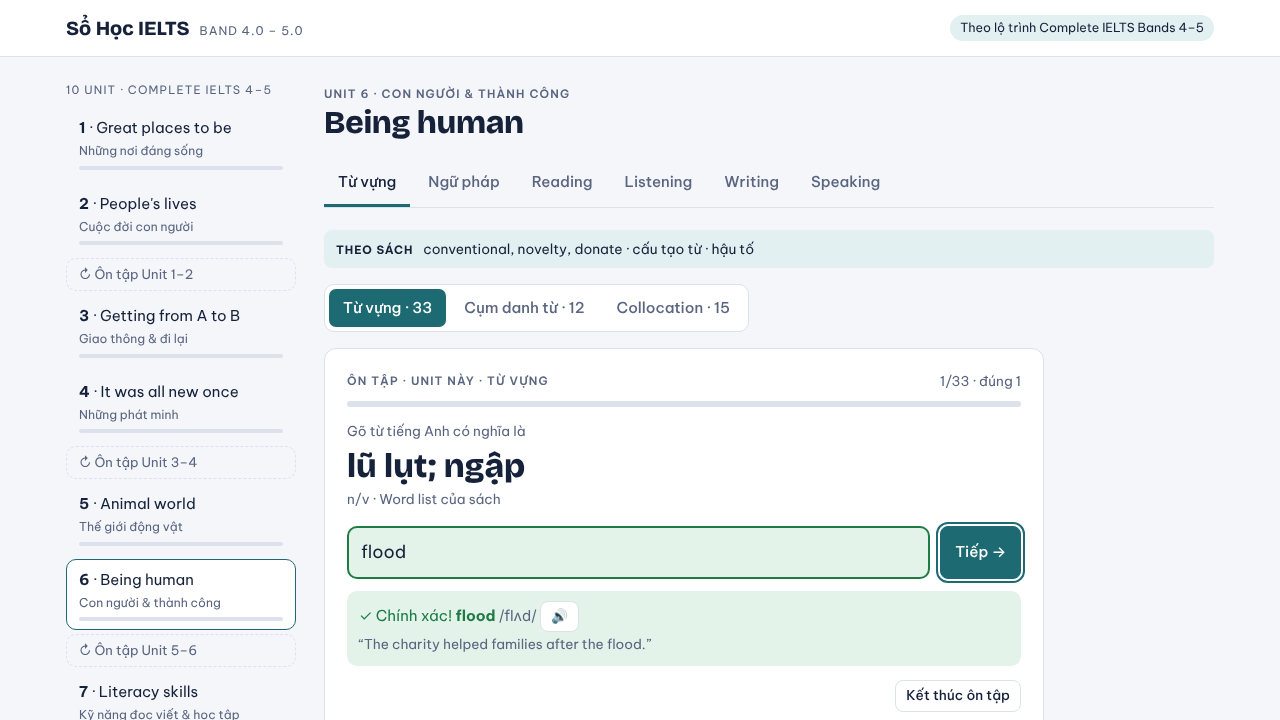
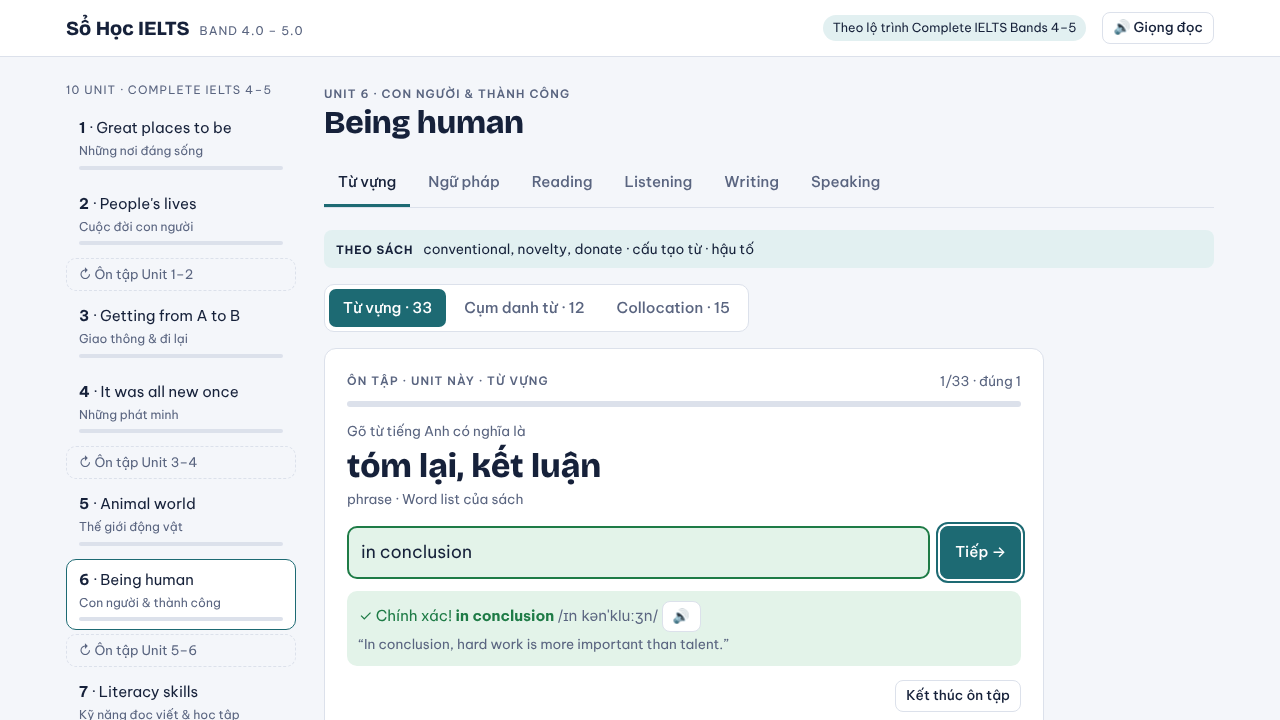
Ignore double quotes when checking typed answers
Claude-Session: https://claude.ai/code/session_015U8gLNH85nDQwAUq18VHqs

diff --git a/js/app.js b/js/app.js
@@ -308,10 +308,12 @@ function vocabPool(u){
   return {list: userList(u, m), key: u.id + M.key, qid: u.id + M.qid, np: m!=="word", M, mode: m};
 }
 /* Ôn tập gõ từ: hiện nghĩa, người học gõ lại từ tiếng Anh */
+// Chuẩn hoá khi so câu gõ: bỏ hoa/thường, khoảng trắng thừa, dấu ngoặc kép, dấu câu cuối
+const normT = x => norm(String(x).replace(/["“”]/g,"")).replace(/\s+/g," ").trim();
 function typAnswers(w){
   const out = new Set([w, w.replace(/\s*\([^)]*\)\s*/g," "), w.replace(/[()]/g,"")]);
   w.split(/\s*\/\s*/).forEach(x => x!==w && out.add(x));
-  return [...out].map(x => norm(x).replace(/\s+/g," "));
+  return [...out].map(normT);
 }
 function typStart(u, mode, scope, items){
   const list = items || (scope==="all" ? UNITS.flatMap((uu,ui) => userList(uu, mode).map(x => Object.assign({}, x, {_u:ui}))) : userList(u, mode).map(x => Object.assign({}, x, {_u:S.u})));
@@ -347,7 +349,7 @@ function typHTML(V){
   </div>`;
 }
 function typCheck(val){
-  const T = S.typ, x = T.list[T.i], v = norm(val).replace(/\s+/g," ");
+  const T = S.typ, x = T.list[T.i], v = normT(val);
   const ok = T.list.some(y => (y===x || norm(y.vi)===norm(x.vi)) && typAnswers(y.w).includes(v)); // chấp nhận cả từ khác có cùng nghĩa
   T.res = {ok, val}; if(ok) T.ok++;
   if(!ok) T.wrong.push(Object.assign({}, x, {_ans:val}));
@@ -659,7 +661,7 @@ document.addEventListener("click", e => {
 /* Gõ lại từ trên thẻ: đúng thì tự qua thẻ mới */
 let cardTypeLock = false;
 function cardTypeCheck(input){
-  const f = input.form, w = f.dataset.w, v = norm(input.value).replace(/\s+/g," ");
+  const f = input.form, w = f.dataset.w, v = normT(input.value);
   if(cardTypeLock || !v) return;
   if(typAnswers(w).includes(v)){
     cardTypeLock = true; input.classList.remove("wrong"); input.classList.add("right"); input.readOnly = true;
